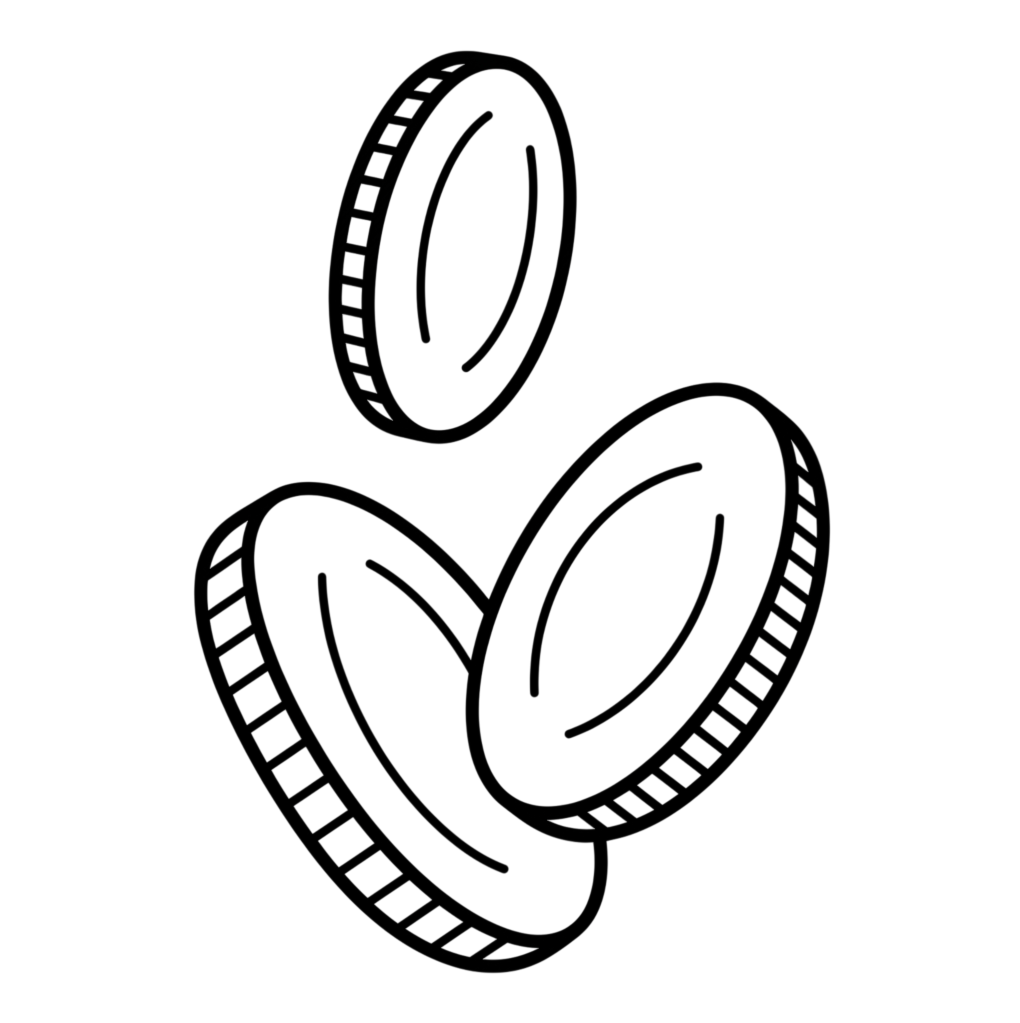
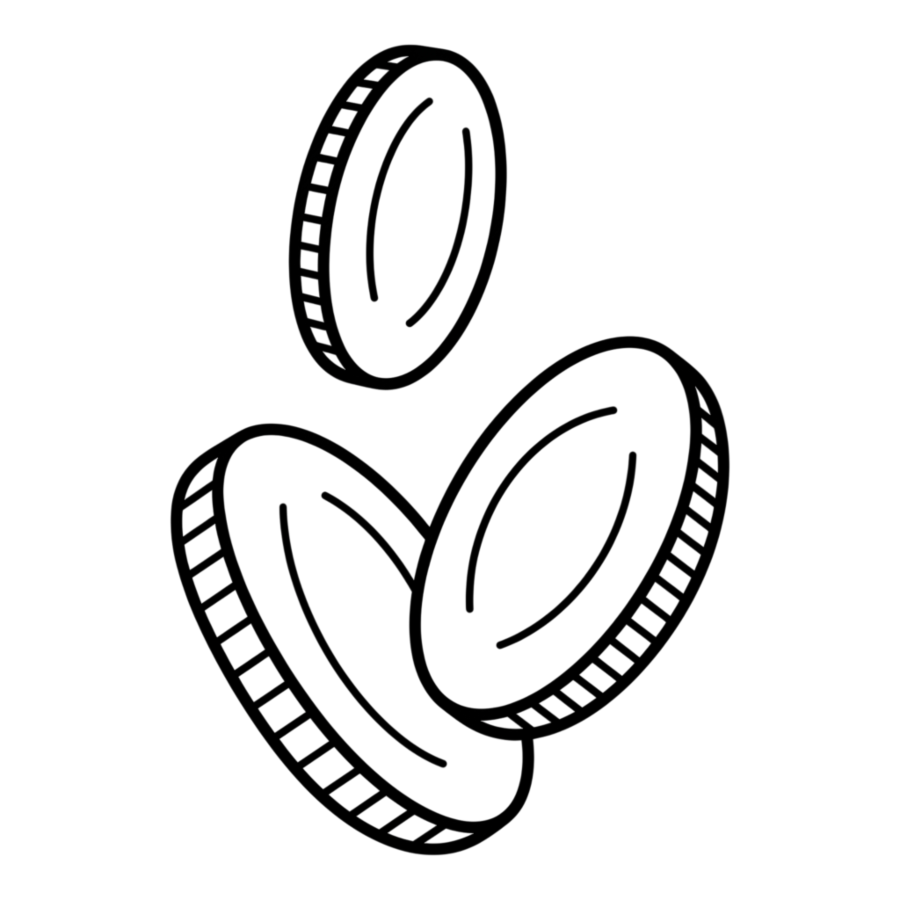
fix: Change in primary color

diff --git a/constants/colors.js b/constants/colors.js
@@ -1,7 +1,7 @@
 export const Colors = {
-  primary: "#53B175",
+  primary: "#4CAF50",
   warning: "#cc475a",
-  
+
   searchPlaceholder: "#7C7C7C",
 
   dark: {
@@ -12,7 +12,7 @@ export const Colors = {
     iconColor: "#9591a5",
     iconColorFocused: "#fff",
     uiBackground: "#2f2b3d",
-    searchBackground: "#3a3649", 
+    searchBackground: "#3a3649",
   },
   light: {
     text: "#625f72",
